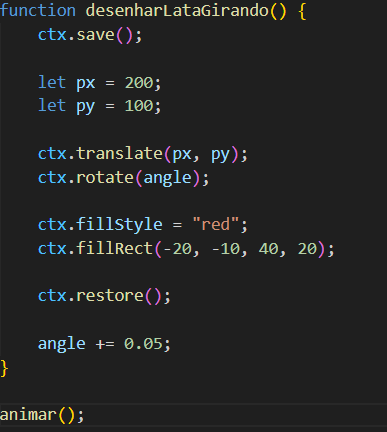
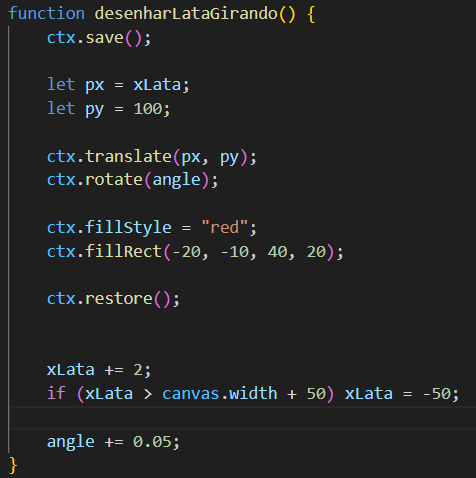
Readme

diff --git a/Oceano2D/script.js b/Oceano2D/script.js
@@ -17,6 +17,7 @@ let x = 0;
 let angle = 0;
 let scale = 1;
 let growing = true;
+let xLata = 0;
  
 let bubbles = [];
  
@@ -163,19 +164,22 @@ function desenharBaiacu() {
 // "peixe" que virou uma lata de coca - rotação + translação
 function desenharLataGirando() {
     ctx.save();
- 
-    let px = 200;
+
+    let px = xLata;
     let py = 100;
- 
-    ctx.translate(px, py);
-    ctx.rotate(angle);
- 
+
+    ctx.translate(px, py); 
+    ctx.rotate(angle);    
+
     ctx.fillStyle = "red";
     ctx.fillRect(-20, -10, 40, 20);
- 
+
     ctx.restore();
- 
+
+   
+    xLata += 2;
+    if (xLata > canvas.width + 50) xLata = -50;
+
     angle += 0.05;
 }
- 
 animar();